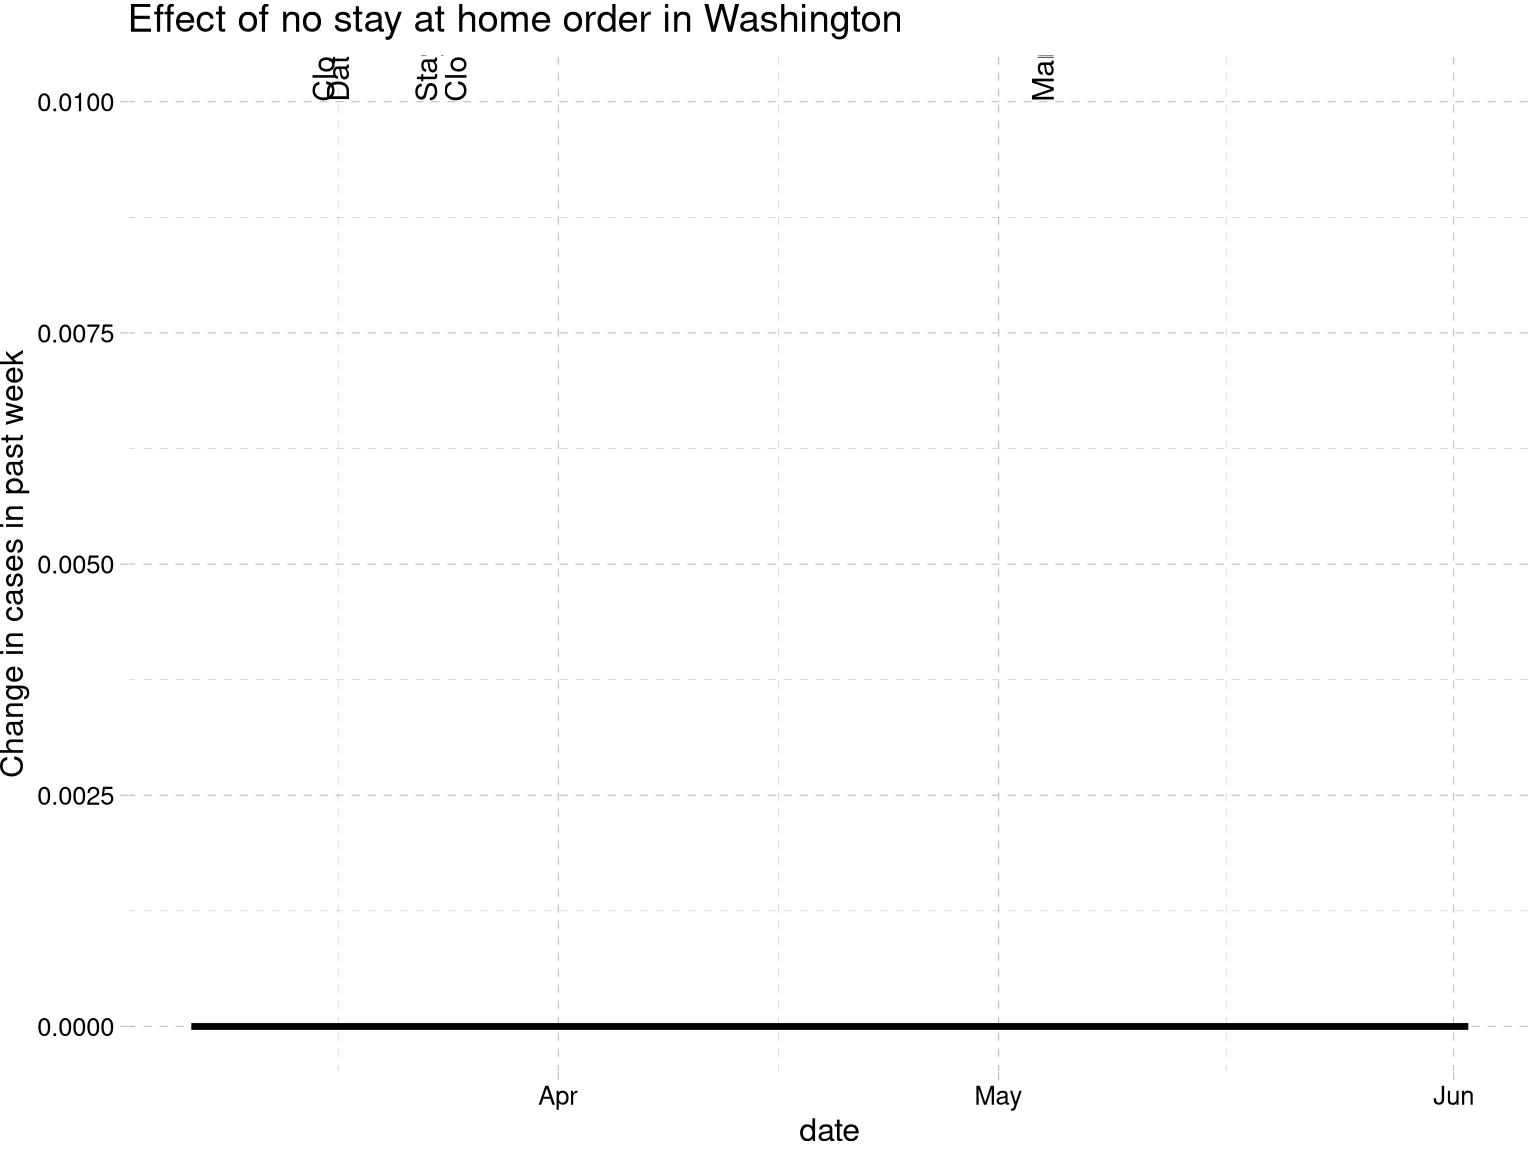
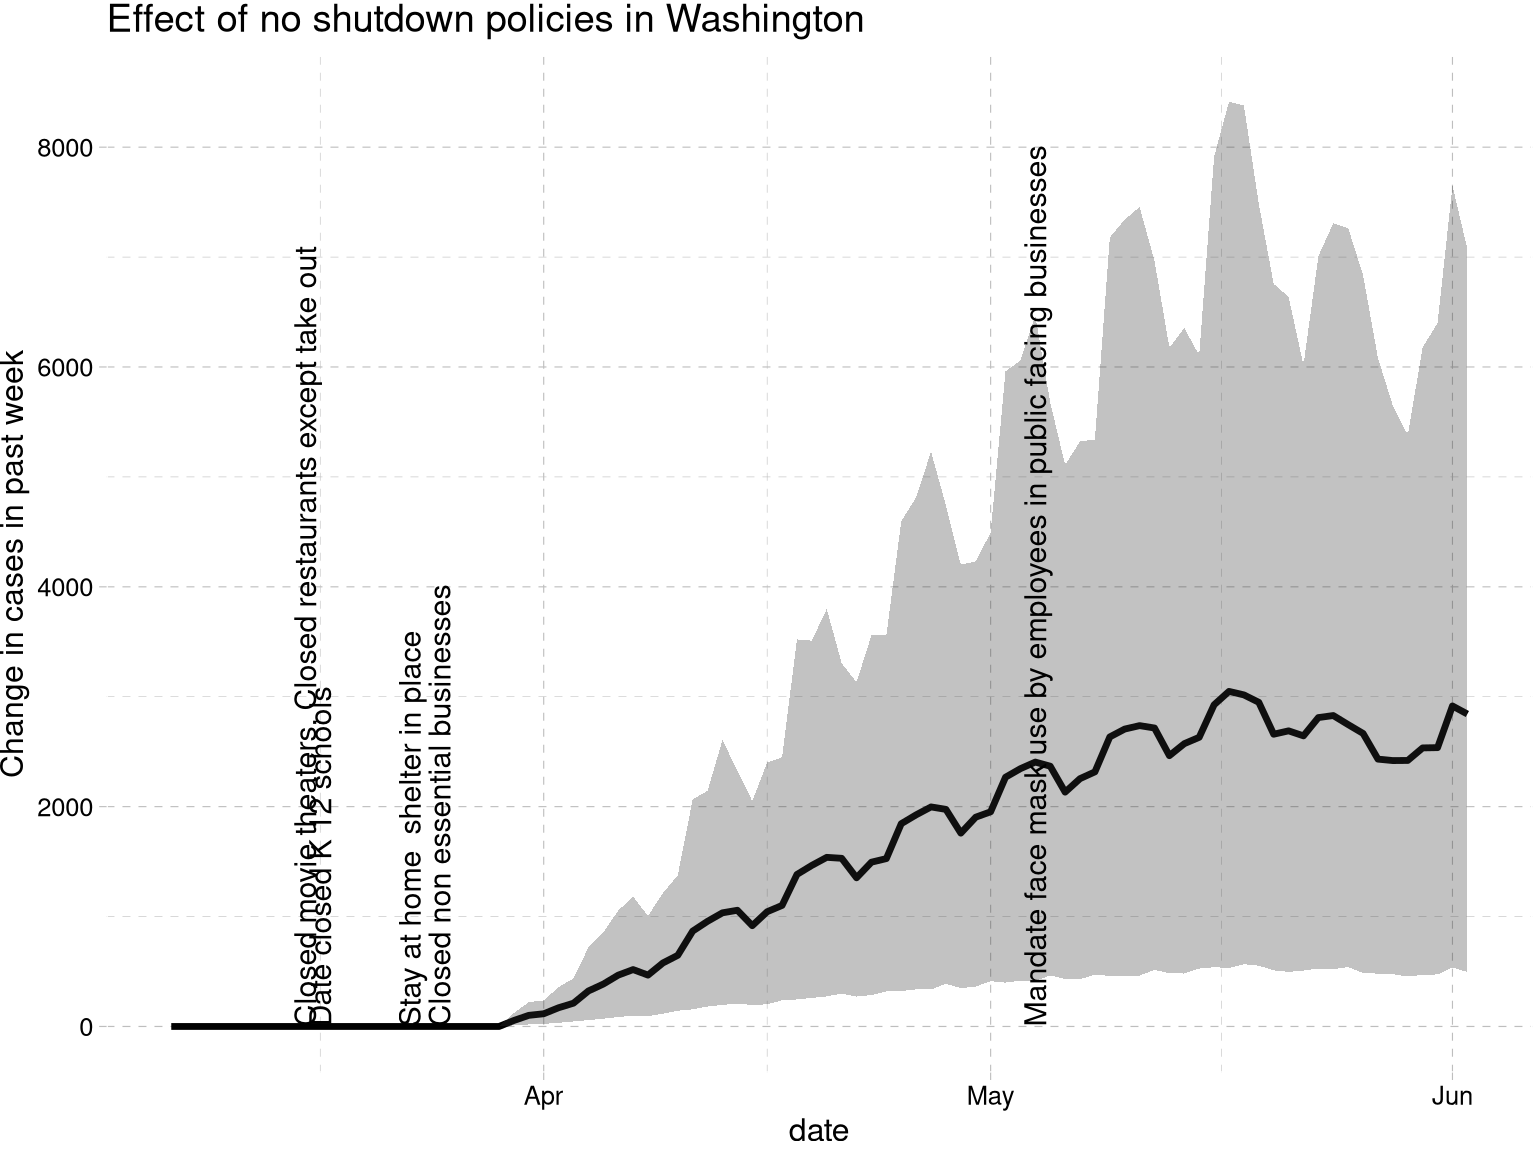
Wed 12 Aug 2020 04:03:31 PM PDT

diff --git a/cf-pindex.html b/cf-pindex.html
@@ -395,7 +395,7 @@ div.tocify {
 <h1 class="title toc-ignore">Causal impact of masks, policies, behavior on early COVID-19 pandemic in the U.S.</h1>
 <h3 class="subtitle">Counterfactuals (with policies averaged)</h3>
 <h4 class="author">Victor Chernozhukov, Hiro Kasahara, Paul Schrimpf</h4>
-<h4 class="date">11 August, 2020</h4>
+<h4 class="date">12 August, 2020</h4>
 
 </div>
 
@@ -704,80 +704,54 @@ for (f in figs1) print(f)</code></pre>
 <p><img src="cf-pindex_files/figure-html/masks-resids-fixed-4.png" width="768" /><img src="cf-pindex_files/figure-html/masks-resids-fixed-5.png" width="768" /><img src="cf-pindex_files/figure-html/masks-resids-fixed-6.png" width="768" /></p>
 </div>
 </div>
-<div id="stay-at-home" class="section level2" number="2.3">
-<h2 number="2.3"><span class="header-section-number">2.3</span> Stay at home</h2>
-<p>We now look at what happens if stay at home orders were never issued.</p>
+<div id="averaged-policies" class="section level2" number="2.3">
+<h2 number="2.3"><span class="header-section-number">2.3</span> Averaged policies</h2>
+<p>We now look at what happens if none of the four averaged policies (stay at home, close movie theaters, close restaurants, close nonessential businesses) were implemented.</p>
 <pre class="r"><code>cf &lt;- df
-cf[,&quot;pshelter&quot;] &lt;- 0
+cf[,&quot;pindex&quot;] &lt;- 0
 cf &lt;- subset(cf, cf$date&gt;=datelims[1]) #+L)
 noshelter &lt;- createforwardsim(m, cf)
 
-if (!file.exists(&quot;cfshelter_idx.Rda&quot;) || rerunsim) {
+if (!file.exists(&quot;cfindex_idx.Rda&quot;) || rerunsim) {
   cfshelterlist &lt;- lapply(unique(df$state), function(s) nopstatesim(s,simobs=simmodel,simcf=noshelter, data=sdf))
   shelterall &lt;- rbindlist(lapply(cfshelterlist, getmeans))
-  save(cfshelterlist, shelterall, file=&quot;cfshelter_idx.Rda&quot;)
+  save(cfshelterlist, shelterall, file=&quot;cfindex_idx.Rda&quot;)
 }
-load(&quot;cfshelter_idx.Rda&quot;)
+load(&quot;cfindex_idx.Rda&quot;)
 cfshelter &lt;- do.call(rbind, lapply(cfshelterlist, function(x) x$edf))</code></pre>
 <pre class="r"><code>cfshelter &lt;- merge(cfshelter, abbrv, by=&quot;state&quot;)
 for (st in c(&quot;Washington&quot;,&quot;Illinois&quot;,&quot;Massachusetts&quot;)) {
   f &lt;- cfplots(st, cfshelter, data=df)
-  print(f$figp +  ggtitle(sprintf(&quot;Effect of no stay at home order in %s&quot;,st)))
+  print(f$figp +  ggtitle(sprintf(&quot;Effect of no shutdown policies in %s&quot;,st)))
 
-  figdev(sprintf(&quot;%s/tex/tables_and_figures/%s-shelter-dgrowth_idx.pdf&quot;,rootdir,st), width=5,height=3.75)
+  figdev(sprintf(&quot;%s/tex/tables_and_figures/%s-index-dgrowth_idx.pdf&quot;,rootdir,st), width=5,height=3.75)
   print(f$figdp)
   dev.off()
 
-  figdev(sprintf(&quot;%s/tex/tables_and_figures/%s-shelter-dcases_idx.pdf&quot;,rootdir,st), width=5,height=3.75)
+  figdev(sprintf(&quot;%s/tex/tables_and_figures/%s-index-dcases_idx.pdf&quot;,rootdir,st), width=5,height=3.75)
   print(f$figp)
   dev.off()
 }</code></pre>
-<pre><code>## Warning: Ignoring unknown aesthetics: fill
+<p><img src="cf-pindex_files/figure-html/unnamed-chunk-3-1.png" width="768" /><img src="cf-pindex_files/figure-html/unnamed-chunk-3-2.png" width="768" /><img src="cf-pindex_files/figure-html/unnamed-chunk-3-3.png" width="768" /></p>
+<pre class="r"><code>figs &lt;- nationalplots(shelterall, cfshelter, &quot;no shutdown policies&quot;)
 
-## Warning: Ignoring unknown aesthetics: fill
-
-## Warning: Ignoring unknown aesthetics: fill
-
-## Warning: Ignoring unknown aesthetics: fill</code></pre>
-<p><img src="cf-pindex_files/figure-html/unnamed-chunk-3-1.png" width="768" /></p>
-<pre><code>## Warning: Ignoring unknown aesthetics: fill
-
-## Warning: Ignoring unknown aesthetics: fill</code></pre>
-<p><img src="cf-pindex_files/figure-html/unnamed-chunk-3-2.png" width="768" /><img src="cf-pindex_files/figure-html/unnamed-chunk-3-3.png" width="768" /></p>
-<pre class="r"><code>figs &lt;- nationalplots(shelterall, cfshelter, &quot;no stay at home orders&quot;)
-
-figdev(paste(rootdir,&quot;tex/tables_and_figures/us-shelter-dgrowth_idx.pdf&quot;,sep=&quot;/&quot;), width=5,height=3.75)
-figs$g</code></pre>
-<pre><code>## Warning: Removed 5 rows containing missing values (geom_point).</code></pre>
-<pre><code>## Warning: Removed 7 row(s) containing missing values (geom_path).</code></pre>
-<pre class="r"><code>dev.off()</code></pre>
+figdev(paste(rootdir,&quot;tex/tables_and_figures/us-index-dgrowth_idx.pdf&quot;,sep=&quot;/&quot;), width=5,height=3.75)
+figs$g
+dev.off()</code></pre>
 <pre><code>## png 
 ##   2</code></pre>
-<pre class="r"><code>figdev(paste(rootdir,&quot;tex/tables_and_figures/us-shelter-dcases_idx.pdf&quot;,sep=&quot;/&quot;), width=5,height=3.75)
-figs$c</code></pre>
-<pre><code>## Warning: Removed 5 rows containing missing values (geom_point).
-
-## Warning: Removed 7 row(s) containing missing values (geom_path).</code></pre>
-<pre class="r"><code>dev.off()</code></pre>
+<pre class="r"><code>figdev(paste(rootdir,&quot;tex/tables_and_figures/us-index-dcases_idx.pdf&quot;,sep=&quot;/&quot;), width=5,height=3.75)
+figs$c
+dev.off()</code></pre>
 <pre><code>## png 
 ##   2</code></pre>
-<pre class="r"><code>figdev(paste(rootdir,&quot;tex/tables_and_figures/us-shelter-rel_idx.pdf&quot;,sep=&quot;/&quot;), width=5,height=3.75)
-figs$r</code></pre>
-<pre><code>## Warning: Removed 7 row(s) containing missing values (geom_path).</code></pre>
-<pre class="r"><code>dev.off()</code></pre>
+<pre class="r"><code>figdev(paste(rootdir,&quot;tex/tables_and_figures/us-index-rel_idx.pdf&quot;,sep=&quot;/&quot;), width=5,height=3.75)
+figs$r
+dev.off()</code></pre>
 <pre><code>## png 
 ##   2</code></pre>
 <pre class="r"><code>for (f in figs) print(f)</code></pre>
-<pre><code>## Warning: Removed 5 rows containing missing values (geom_point).
-
-## Warning: Removed 7 row(s) containing missing values (geom_path).</code></pre>
-<p><img src="cf-pindex_files/figure-html/unnamed-chunk-3-4.png" width="768" /></p>
-<pre><code>## Warning: Removed 5 rows containing missing values (geom_point).
-
-## Warning: Removed 7 row(s) containing missing values (geom_path).</code></pre>
-<p><img src="cf-pindex_files/figure-html/unnamed-chunk-3-5.png" width="768" /></p>
-<pre><code>## Warning: Removed 7 row(s) containing missing values (geom_path).</code></pre>
-<p><img src="cf-pindex_files/figure-html/unnamed-chunk-3-6.png" width="768" /></p>
+<p><img src="cf-pindex_files/figure-html/unnamed-chunk-3-4.png" width="768" /><img src="cf-pindex_files/figure-html/unnamed-chunk-3-5.png" width="768" /><img src="cf-pindex_files/figure-html/unnamed-chunk-3-6.png" width="768" /></p>
 </div>
 </div>
 <div id="deaths" class="section level1" number="3">
@@ -970,73 +944,54 @@ figs$r</code></pre>
 <pre><code>## Warning: Removed 7 row(s) containing missing values (geom_path).</code></pre>
 <p><img src="cf-pindex_files/figure-html/unnamed-chunk-4-6.png" width="768" /></p>
 </div>
-<div id="stay-at-home-1" class="section level2" number="3.3">
+<div id="stay-at-home" class="section level2" number="3.3">
 <h2 number="3.3"><span class="header-section-number">3.3</span> Stay at home</h2>
 <p>We now look at what happens if stay at home orders were never issued.</p>
 <pre class="r"><code>cf &lt;- df
-cf[,&quot;pshelter&quot;] &lt;- 0
+cf[,&quot;pindex&quot;] &lt;- 0
 cf &lt;- subset(cf, cf$date&gt;=datelims[1]) #+L)
 noshelter &lt;- createforwardsim(m, cf, dvar=&quot;dlogdd&quot;, var=&quot;logdd&quot;)
 
-if (!file.exists(&quot;cfshelter_deaths_idx.Rda&quot;) || rerunsim) {
+if (!file.exists(&quot;cfindex_deaths_idx.Rda&quot;) || rerunsim) {
   cfshelterlist &lt;- lapply(unique(df$state), function(s) nopstatesim(s,simobs=simmodel,simcf=noshelter, data=sdf))
   shelterall &lt;- rbindlist(lapply(cfshelterlist, getmeans))
-  save(cfshelterlist, shelterall, file=&quot;cfshelter_deaths_idx.Rda&quot;)
+  save(cfshelterlist, shelterall, file=&quot;cfindex_deaths_idx.Rda&quot;)
 }
-load(&quot;cfshelter_deaths_idx.Rda&quot;)
+load(&quot;cfindex_deaths_idx.Rda&quot;)
 cfshelter &lt;- do.call(rbind, lapply(cfshelterlist, function(x) x$edf))</code></pre>
 <pre class="r"><code>cfshelter &lt;- merge(cfshelter, abbrv, by=&quot;state&quot;)
 for (st in c(&quot;Washington&quot;,&quot;Illinois&quot;,&quot;Massachusetts&quot;)) {
   f &lt;- cfplots(st, cfshelter, data=df, yvar=&quot;deaths&quot;)
-  print(f$figp +  ggtitle(sprintf(&quot;Effect of no stay at home order in %s&quot;,st)))
+  print(f$figp +  ggtitle(sprintf(&quot;Effect of no shutdown policies in %s&quot;,st)))
 
-  figdev(sprintf(&quot;%s/tex/tables_and_figures/%s-shelter-dgrowth_deaths_idx.pdf&quot;,rootdir,st), width=5,height=3.75)
+  figdev(sprintf(&quot;%s/tex/tables_and_figures/%s-index-dgrowth_deaths_idx.pdf&quot;,rootdir,st), width=5,height=3.75)
   print(f$figdp)
   dev.off()
 
-  figdev(sprintf(&quot;%s/tex/tables_and_figures/%s-shelter-dcases_deaths_idx.pdf&quot;,rootdir,st), width=5,height=3.75)
+  figdev(sprintf(&quot;%s/tex/tables_and_figures/%s-index-dcases_deaths_idx.pdf&quot;,rootdir,st), width=5,height=3.75)
   print(f$figp)
   dev.off()
 }</code></pre>
-<pre><code>## Warning: Ignoring unknown aesthetics: fill
+<p><img src="cf-pindex_files/figure-html/unnamed-chunk-5-1.png" width="768" /><img src="cf-pindex_files/figure-html/unnamed-chunk-5-2.png" width="768" /><img src="cf-pindex_files/figure-html/unnamed-chunk-5-3.png" width="768" /></p>
+<pre class="r"><code>figs &lt;- nationalplots(shelterall, cfshelter, &quot;no shutdown policies&quot;, yvar=&quot;deaths&quot;)
 
-## Warning: Ignoring unknown aesthetics: fill
-
-## Warning: Ignoring unknown aesthetics: fill
-
-## Warning: Ignoring unknown aesthetics: fill</code></pre>
-<p><img src="cf-pindex_files/figure-html/unnamed-chunk-5-1.png" width="768" /></p>
-<pre><code>## Warning: Ignoring unknown aesthetics: fill
-
-## Warning: Ignoring unknown aesthetics: fill</code></pre>
-<p><img src="cf-pindex_files/figure-html/unnamed-chunk-5-2.png" width="768" /><img src="cf-pindex_files/figure-html/unnamed-chunk-5-3.png" width="768" /></p>
-<pre class="r"><code>figs &lt;- nationalplots(shelterall, cfshelter, &quot;no stay at home orders&quot;, yvar=&quot;deaths&quot;)
-
-figdev(paste(rootdir,&quot;tex/tables_and_figures/us-shelter-dgrowth_deaths_idx.pdf&quot;,sep=&quot;/&quot;), width=5,height=3.75)
-figs$g</code></pre>
-<pre><code>## Warning: Removed 7 row(s) containing missing values (geom_path).</code></pre>
-<pre class="r"><code>dev.off()</code></pre>
+figdev(paste(rootdir,&quot;tex/tables_and_figures/us-index-dgrowth_deaths_idx.pdf&quot;,sep=&quot;/&quot;), width=5,height=3.75)
+figs$g
+dev.off()</code></pre>
 <pre><code>## png 
 ##   2</code></pre>
-<pre class="r"><code>figdev(paste(rootdir,&quot;tex/tables_and_figures/us-shelter-dcases_deaths_idx.pdf&quot;,sep=&quot;/&quot;), width=5,height=3.75)
-figs$c</code></pre>
-<pre><code>## Warning: Removed 7 row(s) containing missing values (geom_path).</code></pre>
-<pre class="r"><code>dev.off()</code></pre>
+<pre class="r"><code>figdev(paste(rootdir,&quot;tex/tables_and_figures/us-index-dcases_deaths_idx.pdf&quot;,sep=&quot;/&quot;), width=5,height=3.75)
+figs$c
+dev.off()</code></pre>
 <pre><code>## png 
 ##   2</code></pre>
-<pre class="r"><code>figdev(paste(rootdir,&quot;tex/tables_and_figures/us-shelter-rel_deaths_idx.pdf&quot;,sep=&quot;/&quot;), width=5,height=3.75)
-figs$r</code></pre>
-<pre><code>## Warning: Removed 7 row(s) containing missing values (geom_path).</code></pre>
-<pre class="r"><code>dev.off()</code></pre>
+<pre class="r"><code>figdev(paste(rootdir,&quot;tex/tables_and_figures/us-index-rel_deaths_idx.pdf&quot;,sep=&quot;/&quot;), width=5,height=3.75)
+figs$r
+dev.off()</code></pre>
 <pre><code>## png 
 ##   2</code></pre>
 <pre class="r"><code>for (f in figs) print(f)</code></pre>
-<pre><code>## Warning: Removed 7 row(s) containing missing values (geom_path).</code></pre>
-<p><img src="cf-pindex_files/figure-html/unnamed-chunk-5-4.png" width="768" /></p>
-<pre><code>## Warning: Removed 7 row(s) containing missing values (geom_path).</code></pre>
-<p><img src="cf-pindex_files/figure-html/unnamed-chunk-5-5.png" width="768" /></p>
-<pre><code>## Warning: Removed 7 row(s) containing missing values (geom_path).</code></pre>
-<p><img src="cf-pindex_files/figure-html/unnamed-chunk-5-6.png" width="768" /></p>
+<p><img src="cf-pindex_files/figure-html/unnamed-chunk-5-4.png" width="768" /><img src="cf-pindex_files/figure-html/unnamed-chunk-5-5.png" width="768" /><img src="cf-pindex_files/figure-html/unnamed-chunk-5-6.png" width="768" /></p>
 </div>
 </div>
 
